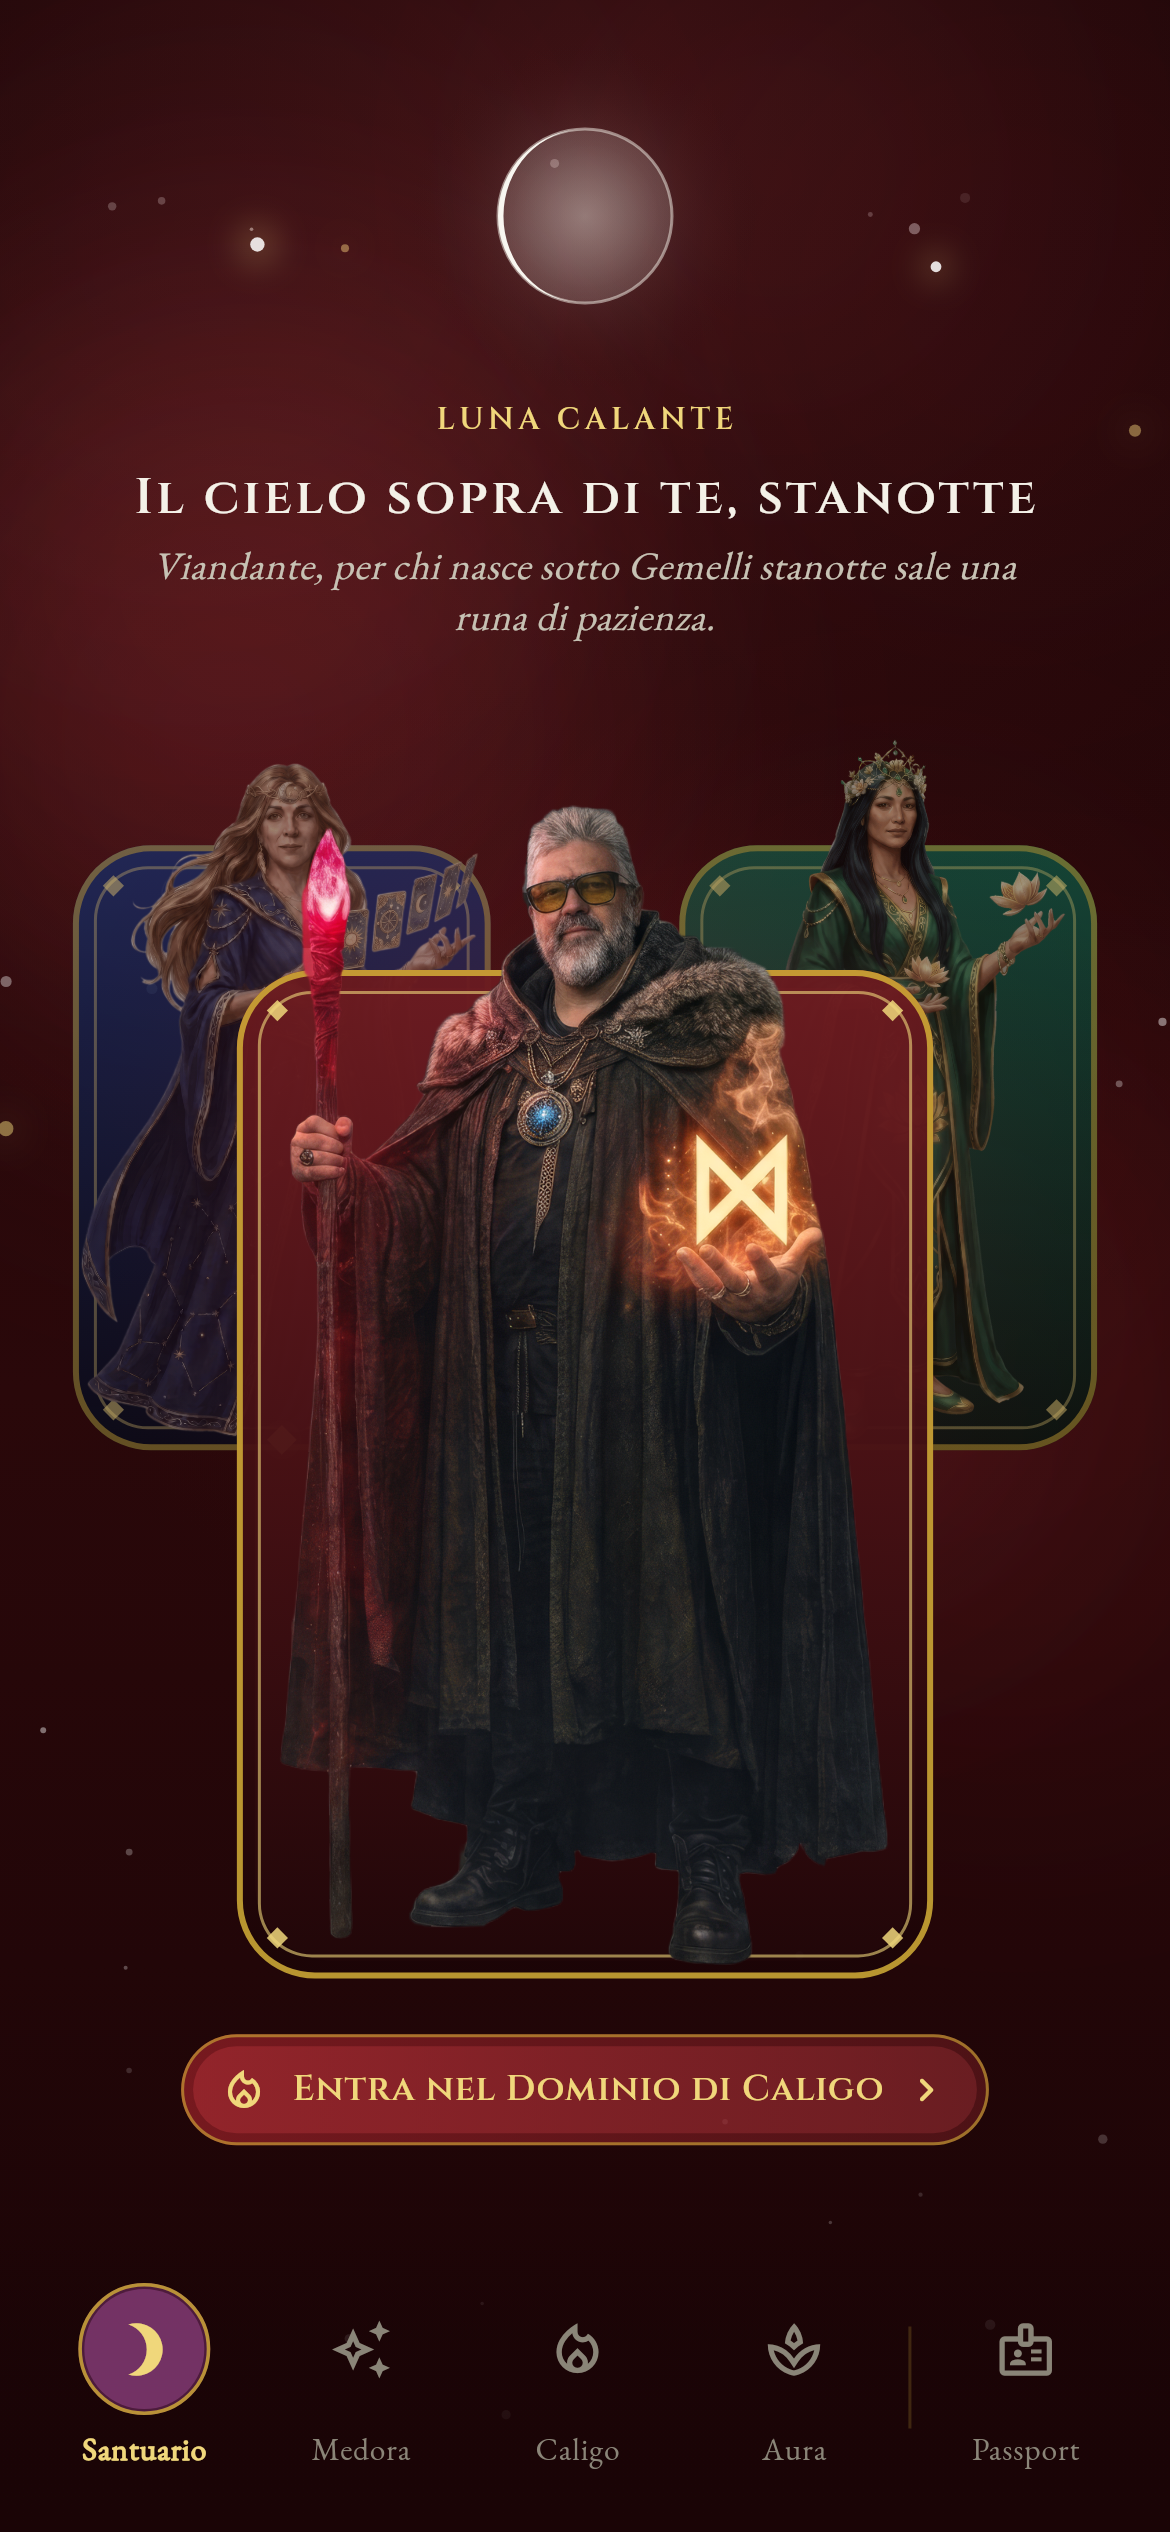
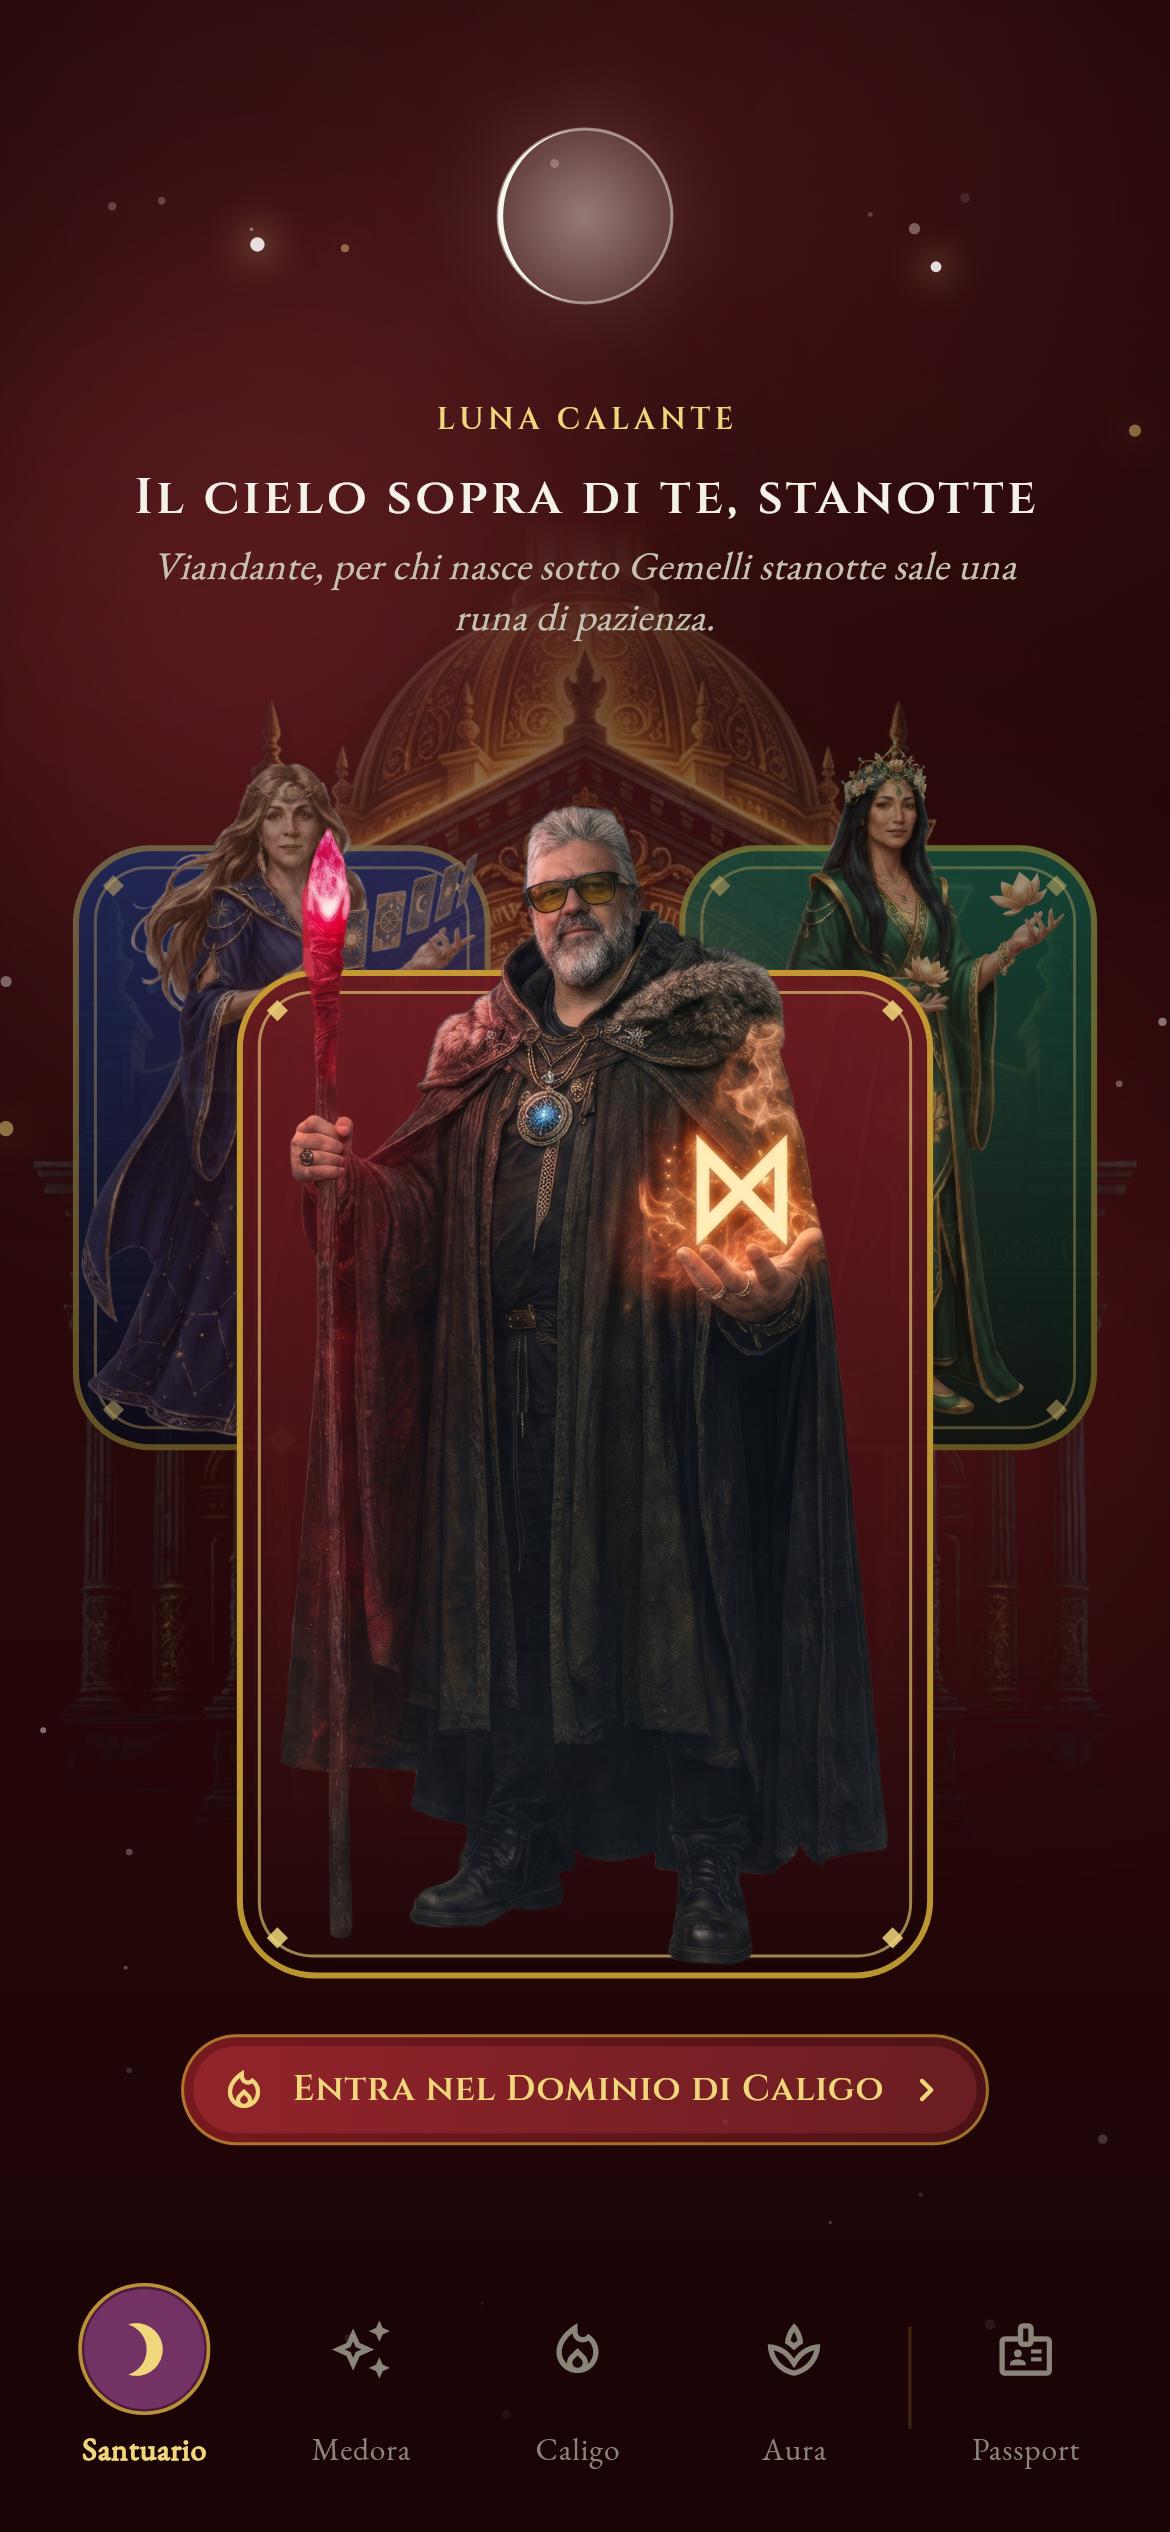
Santuario: fondale del tempio come piano profondo dietro i Maestri
1. Dal tempio dorato su nero (Nano Banana Pro) ricavato un PNG con canale
   alpha vero: alpha = clamp((luminanza - 12) / (42 - 12), 0, 1), cosi' il
   nero pieno diventa trasparente, la pietra scura resta semitrasparente e
   l'oro luminoso resta opaco. Alpha azzerato sotto l'84% dell'altezza: via
   il watermark a stellina e ogni residuo di sfondo. Glifi incisi intatti.
2. Asset committato in brand_assets/santuario/tempio.png (dichiarato nel
   pubspec).
3. Montato nel Santuario come piano profondo, dietro i tre Maestri e le
   cornici e davanti al cosmo: cupola in alto sotto la Luna, porta buia
   dietro il Maestro centrale, colonne che fiancheggiano i laterali.
   Opacita' media per fare atmosfera senza rubare la scena, top sfumato
   dietro il testo (ShaderMask) cosi' non lo copre, parallasse leggera del
   piano piu' lontano, ferma con Riduci Movimento.

Screenshot del Santuario rigenerati.

Claude-Session: https://claude.ai/code/session_01Bk13X9buChdcJyAhRjA85x

Changed region(s): [[0.2769, 0.2184, 0.7385, 0.3744], [0.2154, 0.2808, 0.2462, 0.312]]

diff --git a/lib/features/santuario/santuario_screen.dart b/lib/features/santuario/santuario_screen.dart
@@ -167,10 +167,45 @@ class _SantuarioScreenState extends State<SantuarioScreen>
 
           return Stack(
             children: [
-              // Nessuna forma vettoriale come fondale: dietro i Maestri resta
-              // il cosmo pulito (stelle, nebulose, Luna) e lo spazio scuro. Il
-              // fondale dipinto del Santuario, quando pronto, si monta qui come
-              // piano profondo dietro i busti.
+              // Fondale del tempio: piano profondo dietro i Maestri e dietro le
+              // cornici, davanti al cosmo. Dipinto reale scontornato (canale
+              // alpha vero), con la cupola in alto sotto la Luna e la porta buia
+              // dietro il Maestro al centro. Opacita' media, atmosfera senza
+              // rubare la scena; il suo top sfuma dietro il testo. Parallasse
+              // leggera del piano piu' lontano, ferma con Riduci Movimento.
+              Positioned(
+                top: h * 0.11,
+                left: 0,
+                right: 0,
+                height: w * 1376 / 768,
+                child: IgnorePointer(
+                  child: Transform.translate(
+                    offset: depth(0.16),
+                    child: Opacity(
+                      opacity: 0.4,
+                      child: ShaderMask(
+                        blendMode: BlendMode.dstIn,
+                        shaderCallback: (rect) => const LinearGradient(
+                          begin: Alignment.topCenter,
+                          end: Alignment.bottomCenter,
+                          colors: [
+                            Colors.transparent,
+                            Colors.transparent,
+                            Colors.white,
+                            Colors.white,
+                          ],
+                          stops: [0.0, 0.13, 0.26, 1.0],
+                        ).createShader(rect),
+                        child: Image.asset(
+                          'brand_assets/santuario/tempio.png',
+                          fit: BoxFit.fitWidth,
+                          alignment: Alignment.topCenter,
+                        ),
+                      ),
+                    ),
+                  ),
+                ),
+              ),
 
               // Cielo in alto: nebulose soffuse tinte sull'accento del Maestro
               // e un paio di stelle piu' luminose a evocare i pianeti, in

diff --git a/test/screenshot_capture_test.dart b/test/screenshot_capture_test.dart
@@ -197,12 +197,15 @@ void main() {
   // alla cattura, senza cerchi vuoti.
   Future<void> precacheFaces(WidgetTester tester) async {
     await tester.runAsync(() async {
+      final element = tester.element(find.byType(MaterialApp));
       for (final m in Maestro.values) {
-        await precacheImage(
-          AssetImage(m.avatarAsset),
-          tester.element(find.byType(MaterialApp)),
-        );
+        await precacheImage(AssetImage(m.avatarAsset), element);
       }
+      // Anche il fondale del tempio, cosi' e' decodificato alla cattura.
+      await precacheImage(
+        const AssetImage('brand_assets/santuario/tempio.png'),
+        element,
+      );
     });
     await step(tester);
   }
